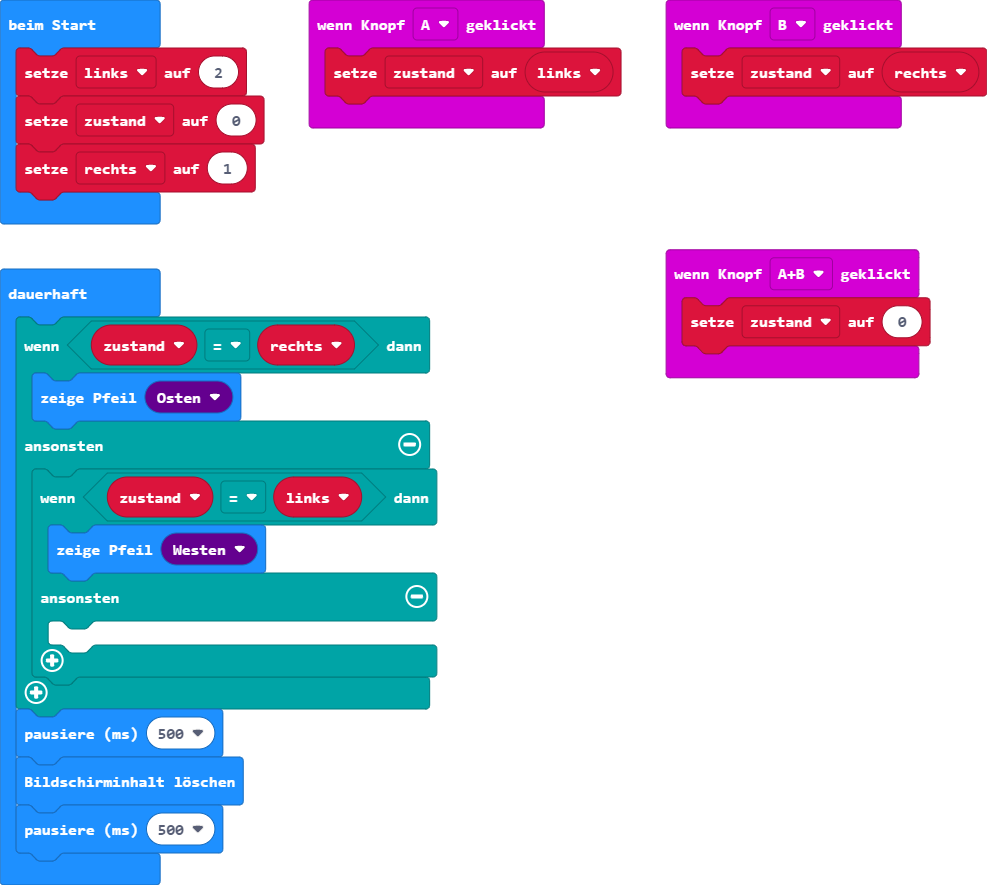
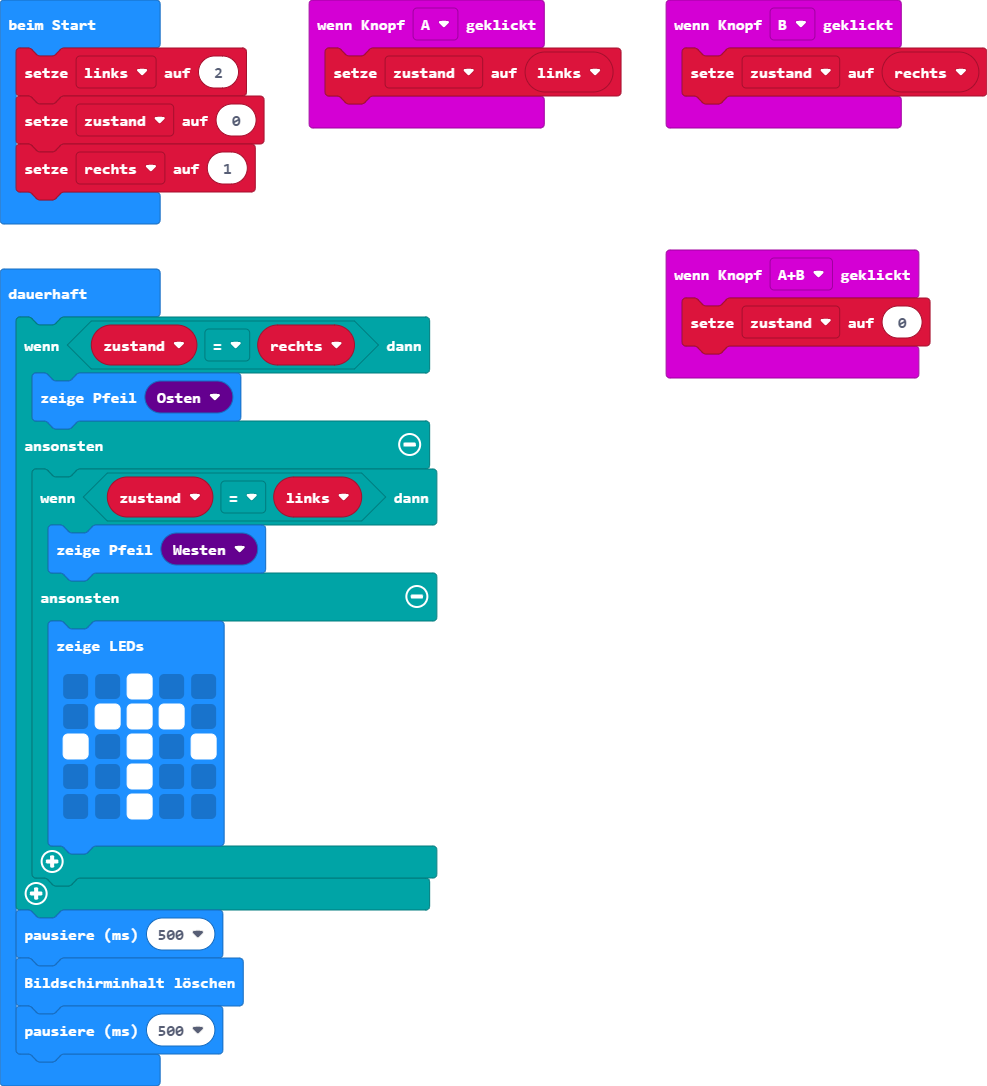
Zeige defaultmäßig nach oben

diff --git a/main.ts b/main.ts
@@ -20,7 +20,13 @@ basic.forever(function () {
         if (zustand == links) {
             basic.showArrow(ArrowNames.West)
         } else {
-        	
+            basic.showLeds(`
+                . . # . .
+                . # # # .
+                # . # . #
+                . . # . .
+                . . # . .
+                `)
         }
     }
     basic.pause(500)
